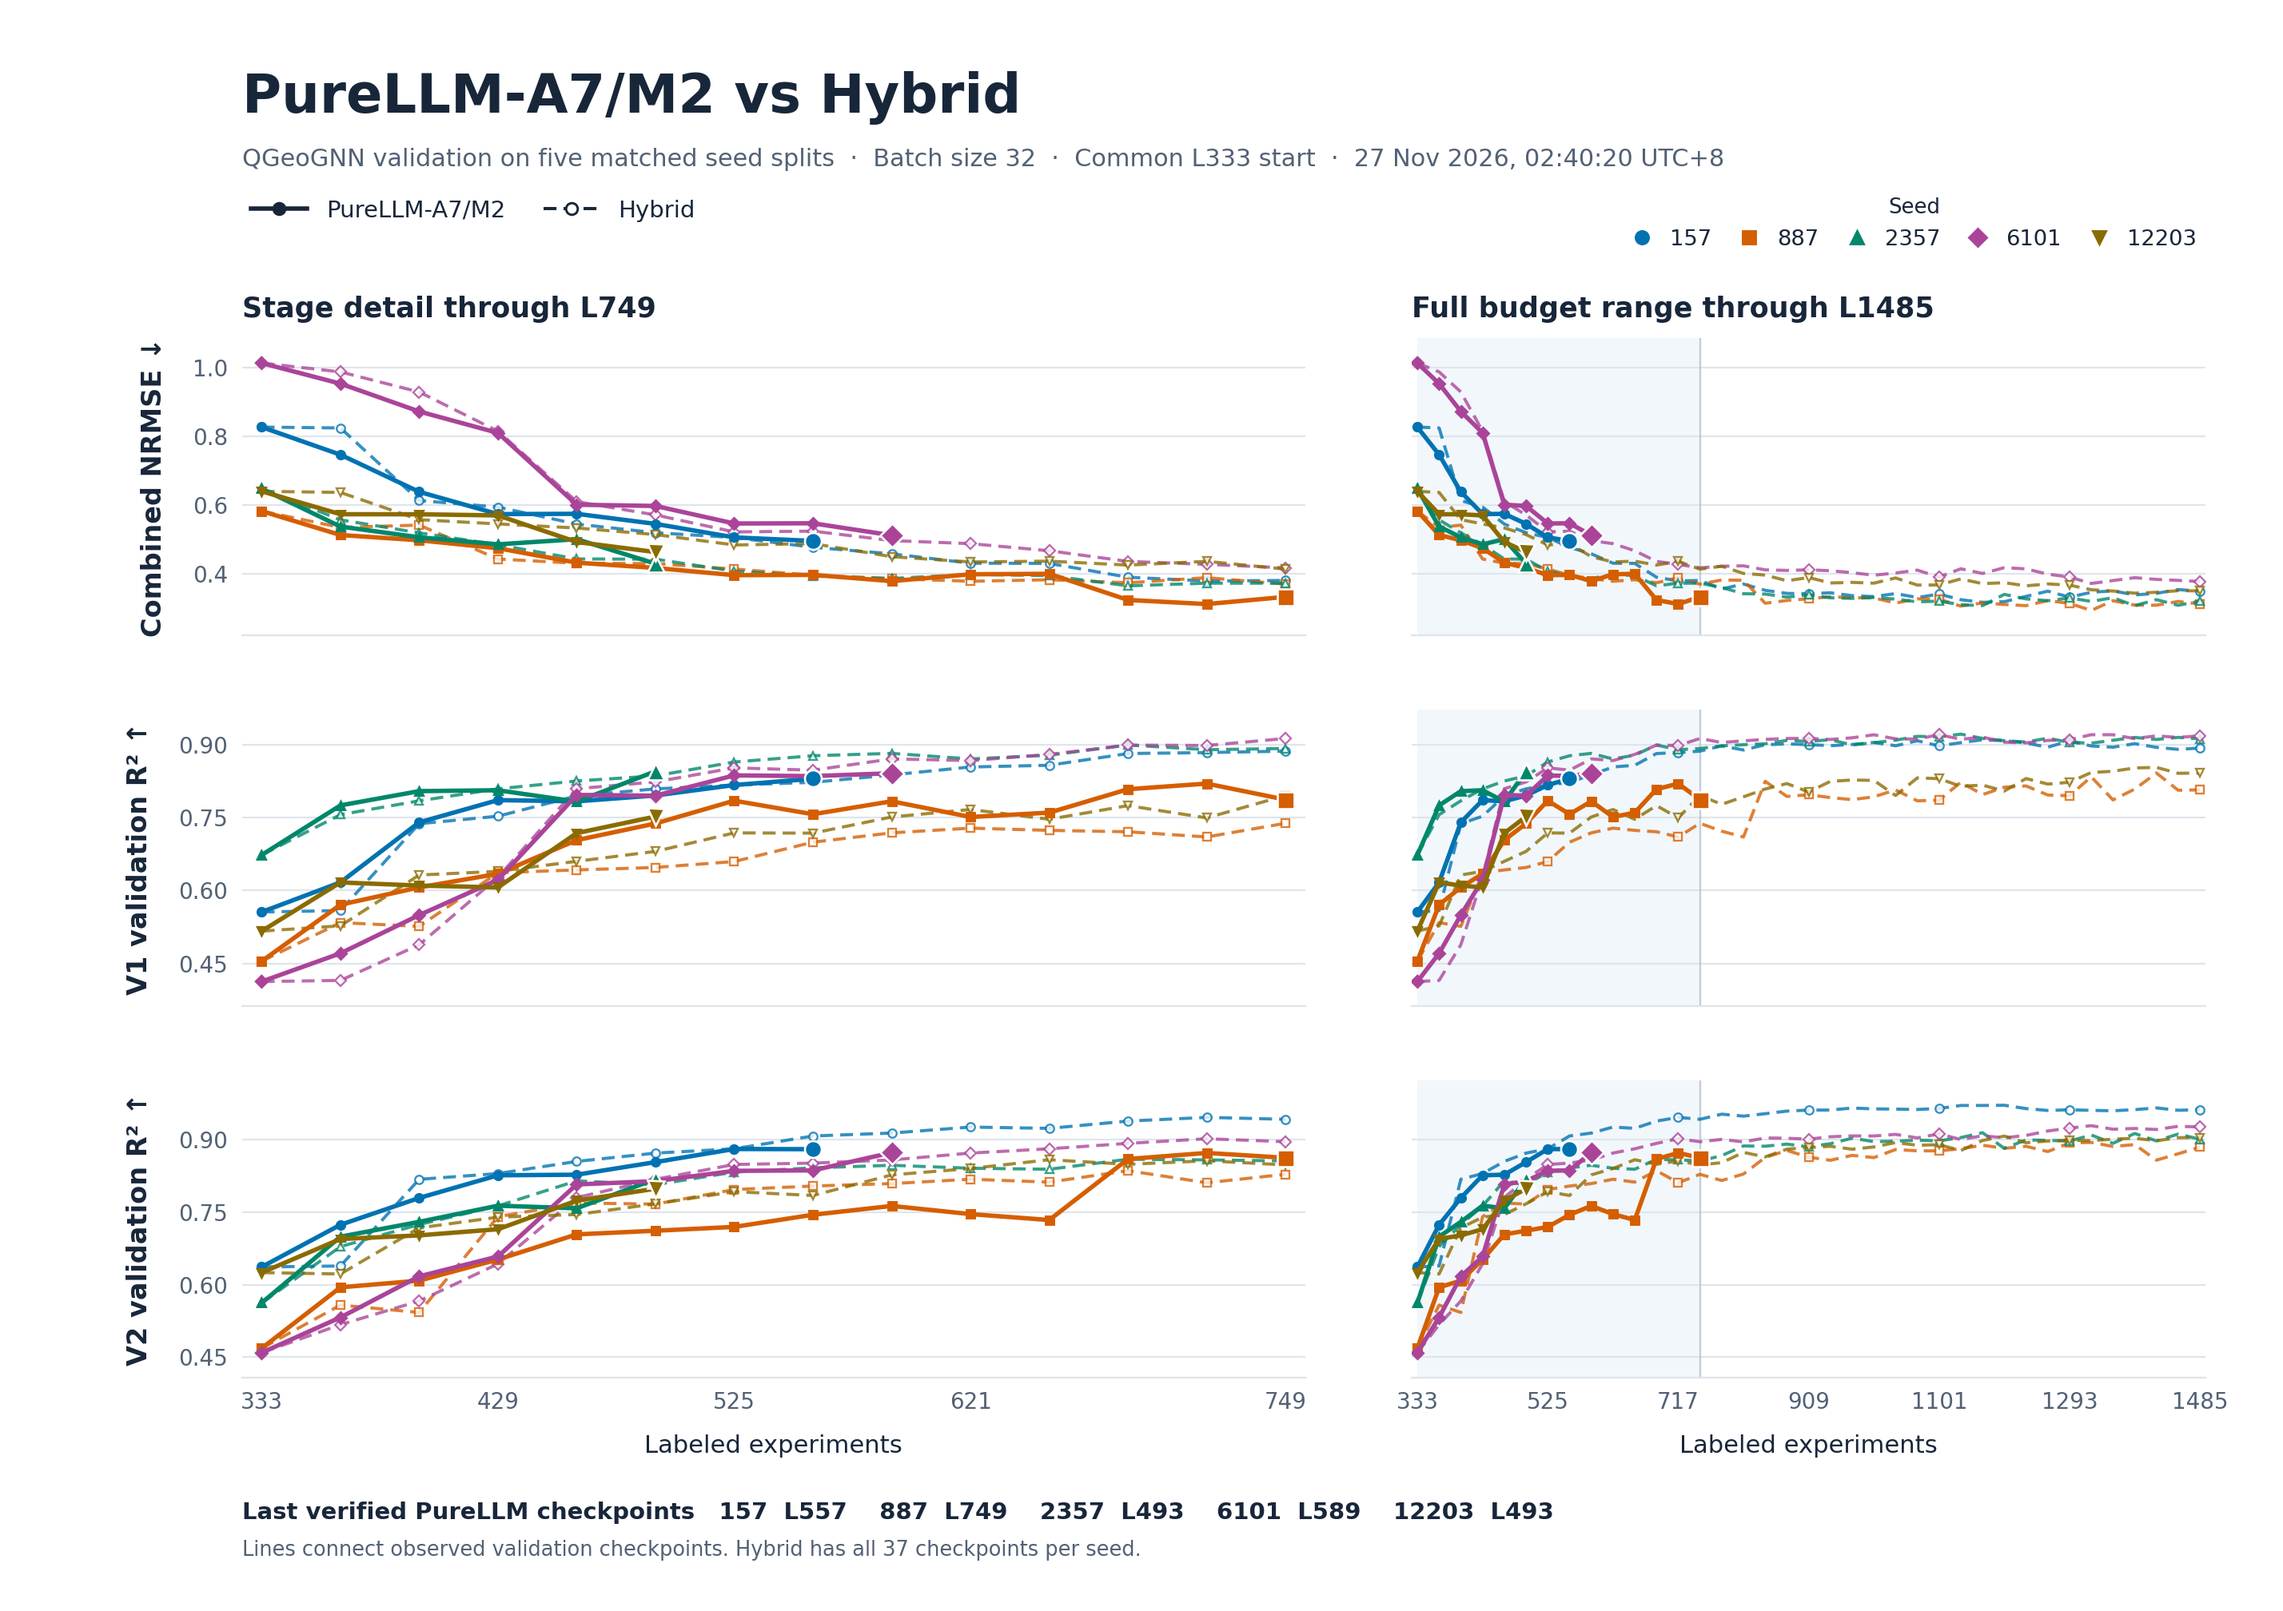
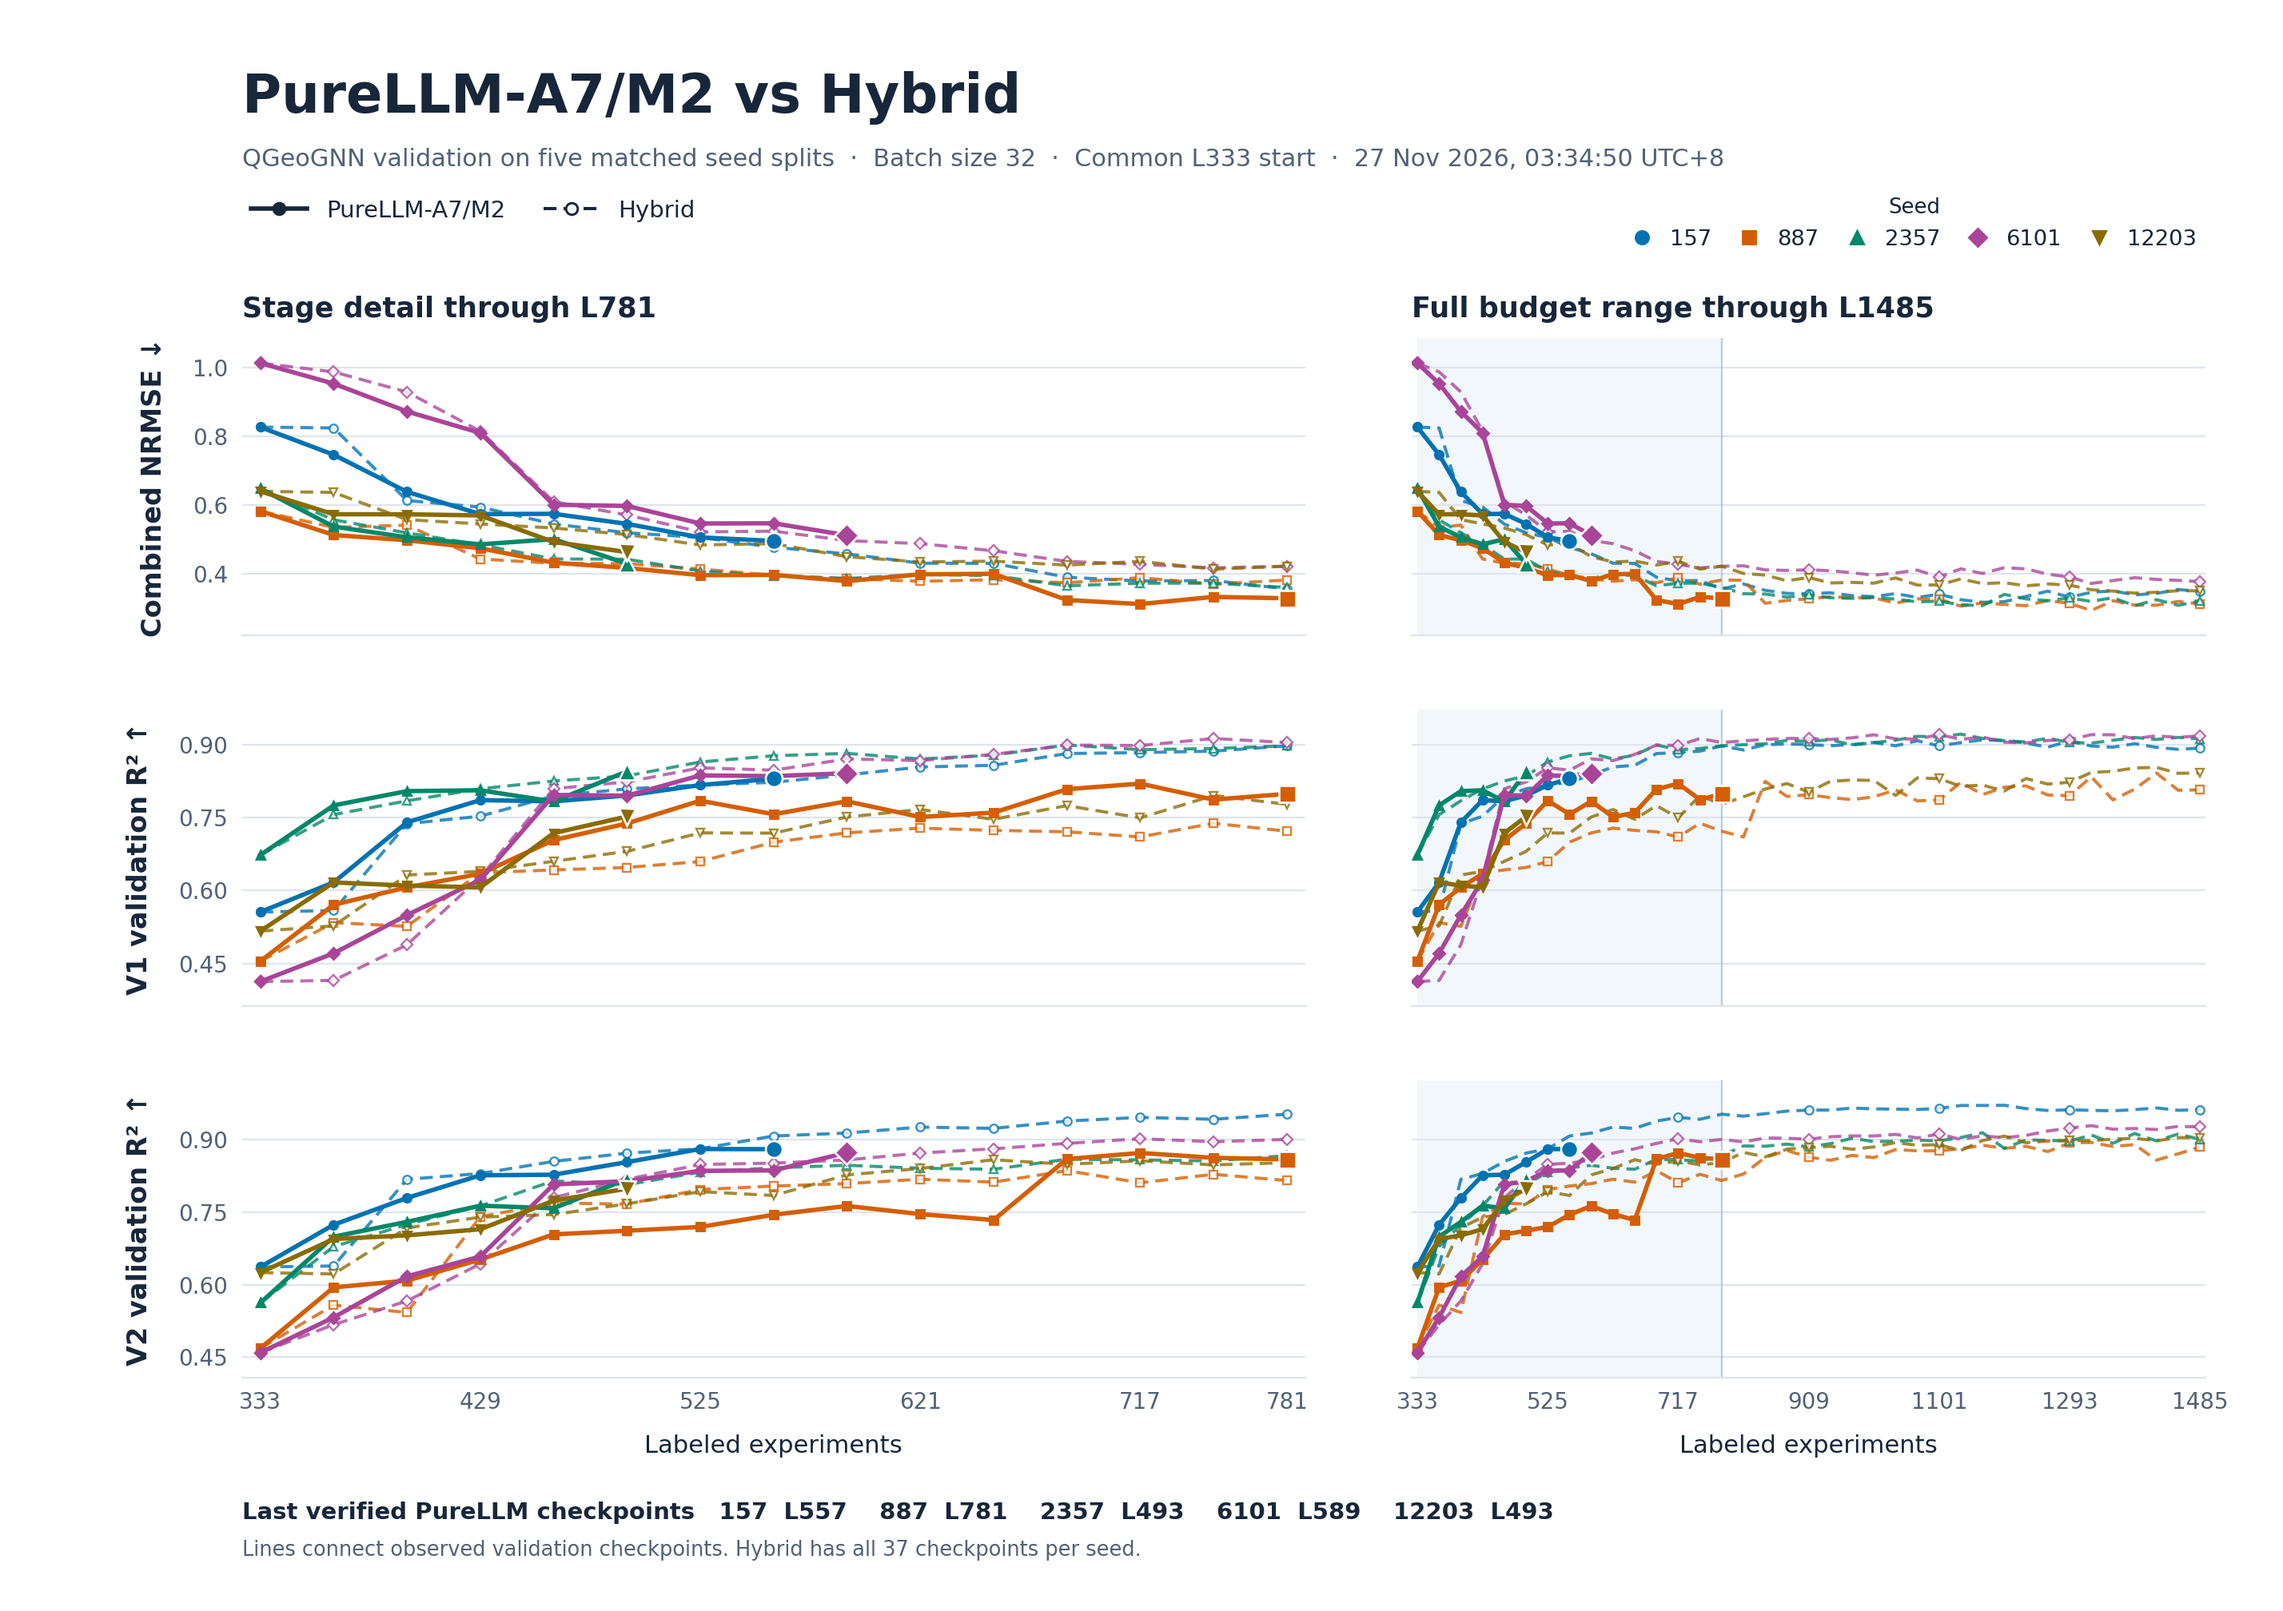
Update paired stage comparison through seed 887 L781

diff --git a/reports/purellm_a7_stage_20261126/README.md b/reports/purellm_a7_stage_20261126/README.md
@@ -1,8 +1,8 @@
 # PureLLM-A7/M2 与 Hybrid 五 seed 阶段对比
 
-验证数据快照的核验时间为北京时间 2026 年 11 月 27 日 02:40:20。PureLLM 已完成 38 轮 CUDA 训练，记录了 1,216 条冻结选点及其理由。Hybrid 为正式 CUDA Uncertainty + Diversity Hybrid32，五条轨迹均已到 L1485。
+验证数据快照的核验时间为北京时间 2026 年 11 月 27 日 03:34:50。PureLLM 已完成 39 轮 CUDA 训练，记录了 1,248 条冻结选点及其理由。Hybrid 为正式 CUDA Uncertainty + Diversity Hybrid32，五条轨迹均已到 L1485。
 
-两种方法在每个 seed 上共用同一份 L333 CUDA checkpoint、验证划分和 QGeoGNN 训练协议，每轮新增 32 个实验。图中数值来自各预算选定 checkpoint 的验证记录。左侧放大截至 L749 的阶段性曲线，右侧展示完整预算范围。实线止于各 seed 最后一次已完成的 PureLLM 训练。颜色和标记配对同一个 seed。 [L333 配对核验](paired_l333_anchor_receipts.json) · [Hybrid 正式归档](../eit_cuda_three_methods_20261124/README.md)
+两种方法在每个 seed 上共用同一份 L333 CUDA checkpoint、验证划分和 QGeoGNN 训练协议，每轮新增 32 个实验。图中数值来自各预算选定 checkpoint 的验证记录。左侧放大截至 L781 的阶段性曲线，右侧展示完整预算范围。实线止于各 seed 最后一次已完成的 PureLLM 训练。颜色和标记配对同一个 seed。 [L333 配对核验](paired_l333_anchor_receipts.json) · [Hybrid 正式归档](../eit_cuda_three_methods_20261124/README.md)
 
 ![PureLLM 与 Hybrid 的五 seed 验证曲线](purellm_vs_hybrid_stage.png)
 
@@ -11,7 +11,7 @@
 | Seed | PureLLM 已完成轮次 | 最新预算 | PureLLM 验证 NRMSE | 同预算 Hybrid NRMSE | 差值 |
 |---:|---:|---:|---:|---:|---:|
 | 157 | 7 | L557 | 0.4944 | 0.4759 | +0.0185 |
-| 887 | 13 | L749 | 0.3315 | 0.3685 | -0.0370 |
+| 887 | 14 | L781 | 0.3275 | 0.3807 | -0.0532 |
 | 2357 | 5 | L493 | 0.4282 | 0.4412 | -0.0130 |
 | 6101 | 8 | L589 | 0.5108 | 0.4954 | +0.0154 |
 | 12203 | 5 | L493 | 0.4620 | 0.5130 | -0.0510 |
@@ -20,9 +20,11 @@
 
 6101 到 L493 的这一轮来自已归档的完整模型回答。系统核验并移除重复引用别名，保留原有 32 个选点的顺序和理由，随后完成 CUDA 训练。这一步沿用归档回答的使用量记录，无新增 API 请求。
 
+887 的 R13 原答因引用字段和关系错误被校验拒绝。随后完成了一次付费局部纠错，系统从该响应的显式最终答案恢复，保留 32 个选点的顺序并在通过校验后训练至 L781。该归档恢复新增 0 次 API 请求。选点记录分别保留原答与纠错的供应商回执与用量，纠错响应报告 353,339 个输入 token 和 285 个输出 token，其中包含 29 个推理 token。
+
 ## 数据和选点
 
-- [PureLLM 验证指标](purellm_validation_curves.csv) 包含 5 个初始检查点和 38 个后续训练点。`round=0` 对应共享 L333，`acquisition_round=0` 对应首次选点和 L365 训练。 CSV 保留每个指标文件和 checkpoint 的摘要。 [PureLLM 逐文件清单](purellm_export_manifest.json)
+- [PureLLM 验证指标](purellm_validation_curves.csv) 包含 5 个初始检查点和 39 个后续训练点。`round=0` 对应共享 L333，`acquisition_round=0` 对应首次选点和 L365 训练。 CSV 保留每个指标文件和 checkpoint 的摘要。 [PureLLM 逐文件清单](purellm_export_manifest.json)
 - [Hybrid 验证指标](hybrid_validation_curves.csv) 共 185 个检查点。 [来源和校验记录](hybrid_validation_receipts.json)
 - 每个 seed 的 JSONL 每行对应一个已冻结并完成训练的轮次，保留模型给出的理由、引用和选点顺序。 [157](selections/seed_157_accepted_rounds.jsonl) · [887](selections/seed_887_accepted_rounds.jsonl) · [2357](selections/seed_2357_accepted_rounds.jsonl) · [6101](selections/seed_6101_accepted_rounds.jsonl) · [12203](selections/seed_12203_accepted_rounds.jsonl)
 
@@ -31,5 +33,5 @@
 使用 Python 和 Matplotlib 3.10.8，在本目录运行以下命令。
 
 ```bash
-python plot_stage.py --snapshot '27 Nov 2026, 02:40:20 UTC+8'
+python plot_stage.py --snapshot '27 Nov 2026, 03:34:50 UTC+8'
 ```
